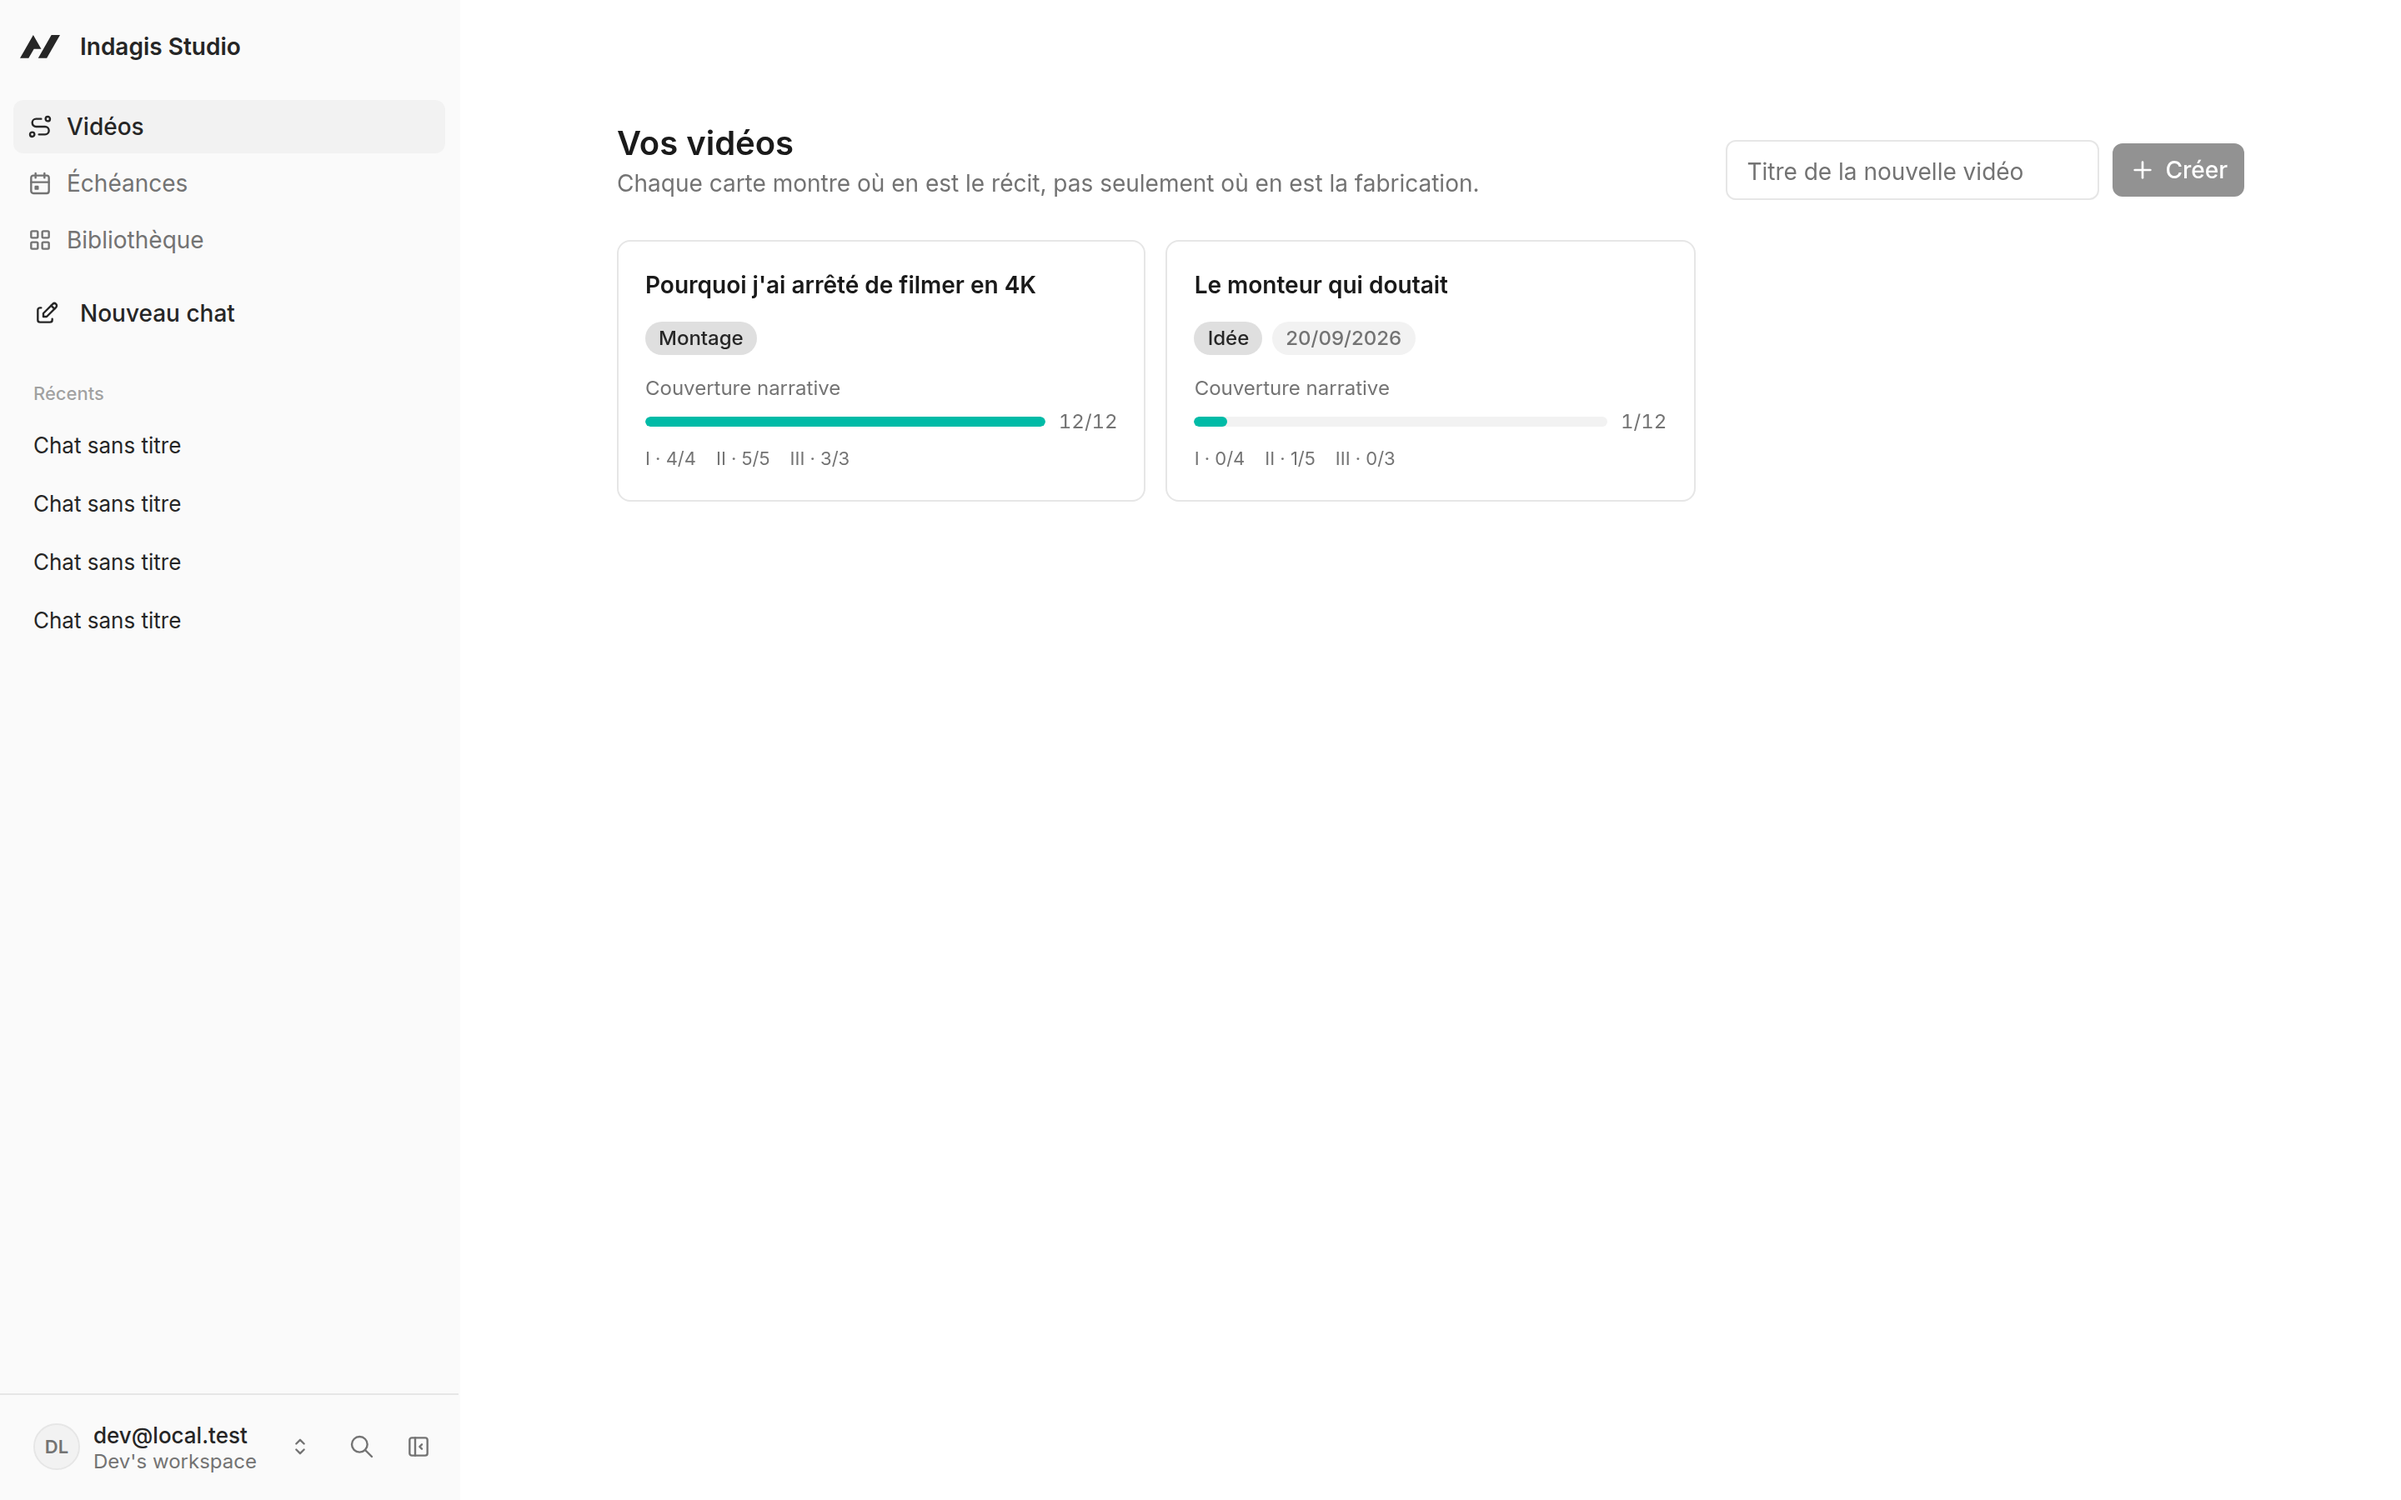
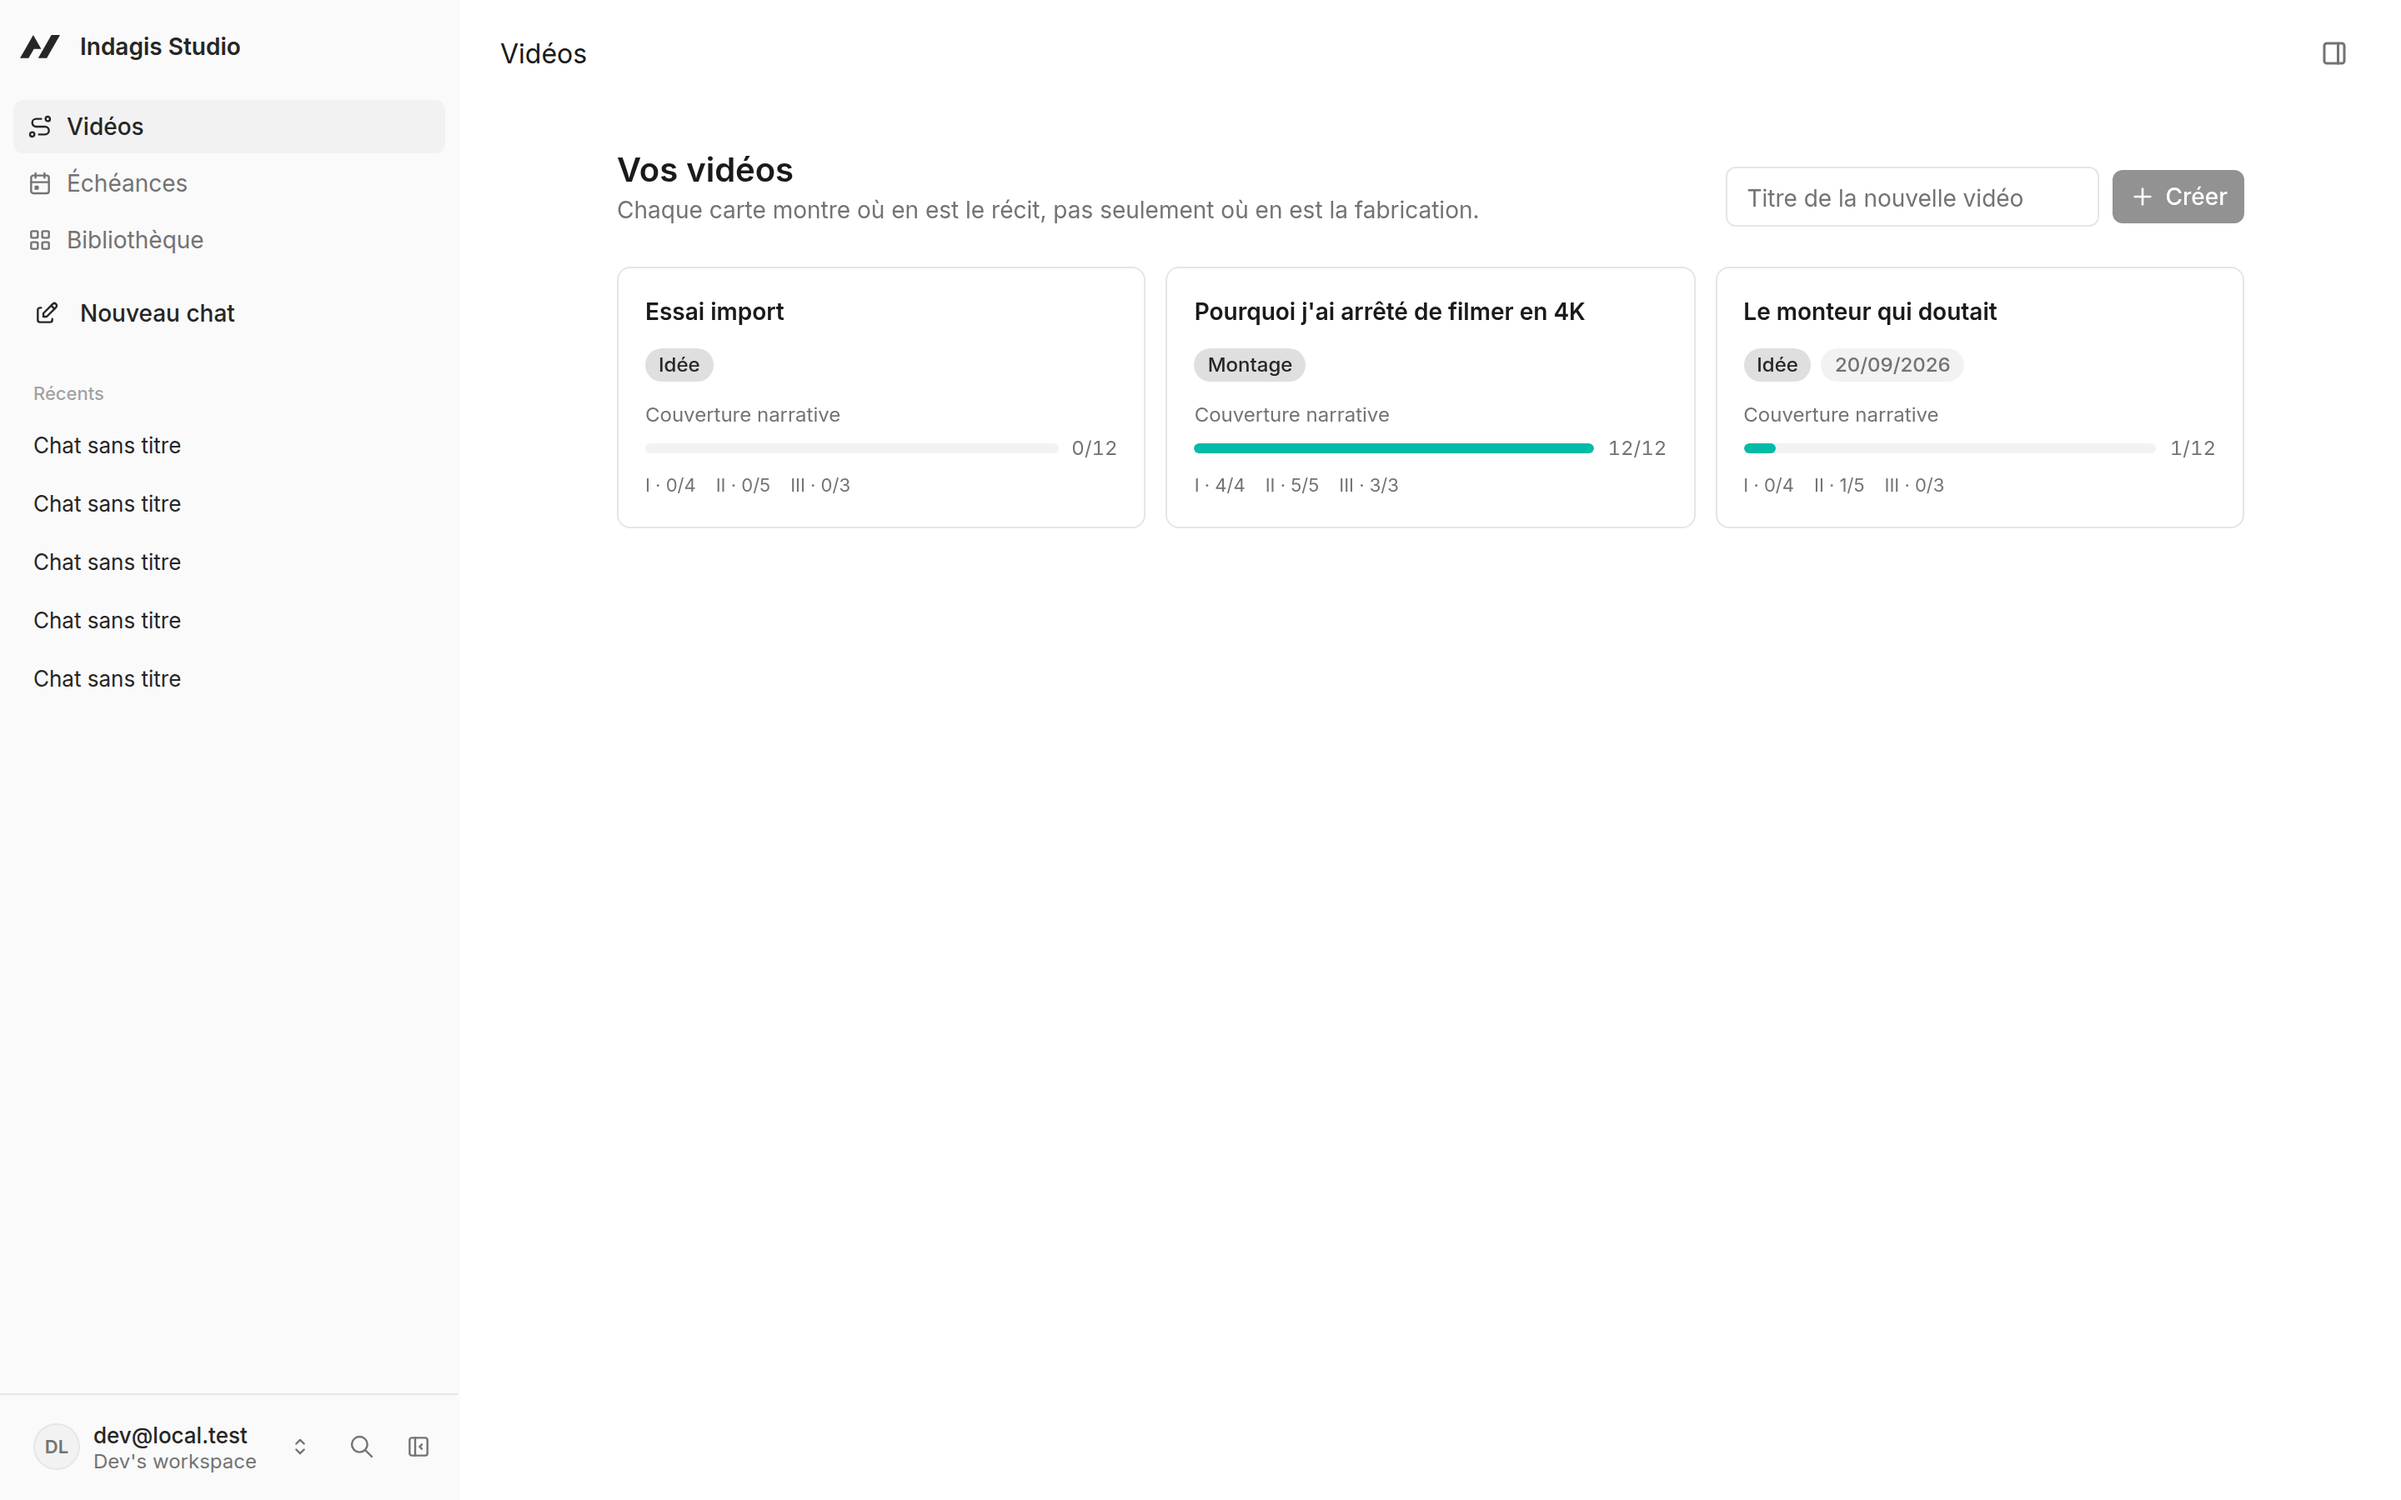
docs: l'import et le diagnostic sur la carte, annoncés et reprouvés
README : les deux gestes nouveaux figurent dans « Ce que ça fait ». Captures et
démonstration animée régénérées — elles montrent le bouton « Importer » à côté des
exports, et le diagnostic dans l'en-tête de la carte.

ETAT-DU-PROJET : les trois recommandations passent de « à faire » à « fait », avec
les deux décisions de l'import qu'il faut connaître avant d'y toucher — timecodes
SOURCE et non record, cadence exigée et jamais supposée.

Chiffres recalés, chacun reprouvé par sa commande : 43 actions métier (45 fichiers),
157 tests, 10 écrans Studio sur 10 passent par useT().

diff --git a/docs/ETAT-DU-PROJET.md b/docs/ETAT-DU-PROJET.md
@@ -38,16 +38,18 @@ Tout ce qui ne sert pas ce parcours est secondaire.
 
 | | Comment le reprouver |
 | --- | --- |
-| 42 actions métier, plus les 2 standard | `ls actions/*.ts \| wc -l` → 44 |
+| 43 actions métier, plus les 2 standard | `ls actions/*.ts \| wc -l` → 45 |
 | **Aucune action métier sans bouton** | critère du vérificateur, 4 exceptions nommées |
 | 13 tables, toutes à portée par propriétaire | `grep -c "ownableColumns()" server/db/schema.ts` → 13 |
 | 4 écrans Studio, sur 17 routes — les 13 autres viennent du gabarit | `ls app/routes/*.tsx` |
 | 12 règles de diagnostic | `grep -oE 'rule: "[a-z-]+"' shared/diagnosis.ts \| sort -u \| wc -l` → 12 |
 | 550 prompts livrés, hors du bundle client | garde CI « Le catalogue ne part pas au navigateur » |
-| **130 tests** | `pnpm test` |
+| **157 tests** | `pnpm test` |
 | **8 écrans Studio sur 8 passent par `useT()`** | ligne INFO du vérificateur |
 | **11 langues aux clés strictement identiques** | `tests/unit/i18n-catalog.test.ts`, 41 cas |
 | Export CSV, EDL d'assemblage et chapitres YouTube, **les trois depuis l'écran** | onglet Marqueurs, trois boutons |
+| **Import CSV, EDL et lignes collées**, avec lecture à blanc | onglet Marqueurs, bouton « Importer » |
+| **Le diagnostic se lance depuis la carte**, remarques cliquables | en-tête de l'onglet Carte |
 | Typecheck, build et doctor verts | `pnpm typecheck && pnpm build && pnpm agent-native:doctor` |
 | **24 critères du vérificateur au vert** | `bash scripts/verifier.sh` |
 
@@ -110,53 +112,57 @@ Resolve ou Premiere depuis ce dépôt.** Un EDL subtilement faux s'importe sans 
 **Fait quand** : un fichier exporté s'ouvre dans Resolve et montre les bons passages.
 Vérifiable par vous seul, puisqu'il faut le logiciel.
 
-## Recommandations — ce que je ferais ensuite, et pourquoi
+## Les trois recommandations, faites
 
-Trois manques de produit, trouvés en auditant les 44 actions contre l'interface. Aucun
-n'est un bug : ce sont des gestes que le monteur ne peut pas faire.
+Elles avaient été trouvées en auditant les 44 actions contre l'interface. Aucune n'était
+un bug : c'étaient des gestes que le monteur ne pouvait pas faire.
 
-### A. Importer des marqueurs, pas seulement les exporter
+### A. Importer des marqueurs — fait
 
-**Aucune action d'import n'existe** (`ls actions/ | grep import` → vide). L'échange est à
-sens unique : Studio produit un EDL, il n'en lit aucun.
+`import-markers` lit trois formats, reconnus tout seuls : le CSV (le nôtre, et tout autre
+à colonnes nommées), l'EDL CMX3600 de Resolve ou Premiere, et les lignes collées d'un
+dérushage. L'aller-retour export → import est ancré par un test.
 
-Or le monteur pose déjà des marqueurs dans Resolve pendant qu'il dérushe. Les retaper un
-par un dans Studio est le prix d'entrée du produit, et c'est le plus cher. Lire un CSV ou
-un EDL ferait tomber ce prix à zéro, et rendrait l'aller-retour possible : repérer dans
-Resolve, structurer dans Studio, ré-assembler dans Resolve.
+Deux décisions qui engagent, et qu'il faut connaître avant de toucher à ce code :
 
-**C'est à mon avis le plus gros gain disponible**, devant toute nouvelle règle de
-diagnostic.
+- **Les timecodes SOURCE de l'EDL, jamais les record.** Le record dit où le passage tombe
+  dans l'assemblage — une information qui n'existe pas dans le carnet et qui changera dès
+  la première coupe. Un test l'ancre : deux événements commençant à 0 dans leurs rushes
+  respectifs doivent tous deux relire 0.
+- **La cadence est exigée pour un EDL, jamais supposée.** Un EDL ne la porte pas ; la
+  deviner décalerait tous les timecodes en silence. Même règle qu'à l'export.
 
-### B. Coller une liste de timecodes d'un coup
+### B. Coller une liste de timecodes — fait
 
-Le carnet ne saisit qu'un marqueur à la fois (`grep -ci "bulk\|paste" MarkersTab.tsx` →
-0). Un dérushage produit vingt à cinquante repères. Vingt formulaires, c'est un abandon.
+Deux portes, une seule action derrière : coller un bloc, ou choisir un fichier — lu dans
+le navigateur, envoyé à l'action locale, rien ne sort de la machine. Une **lecture à
+blanc** montre ce qui serait créé et ce qui serait refusé, ligne par ligne.
 
-Un champ qui accepte un bloc collé — une ligne par passage, `rush-01.mp4 1:30 1:45
-Ouverture` — tiendrait en une action et un parseur. Moins ambitieux que l'import de
-fichier, et livrable en une fraction du temps.
+Les marqueurs importés s'ajoutent à la suite, **jamais à la place** : un import ne doit
+pas pouvoir effacer un carnet.
 
-### C. Montrer le diagnostic sur la carte
+### C. Montrer le diagnostic sur la carte — fait
 
-Le diagnostic vit dans l'onglet **Essais** ; la carte ne le mentionne jamais
-(`grep -c diagnose StoryMap.tsx` → 0). Or la carte est l'écran où l'on passe son temps,
-et le diagnostic est la réponse à la question qui fonde le produit : *qu'est-ce qui manque
-à mon histoire ?*
+Un bouton dans l'en-tête, un compteur de remarques, et surtout : **chaque remarque est
+cliquable**. `Finding.steps` nomme les étapes concernées ; un clic déplie la bonne. C'est
+ce que l'onglet Essais ne sait pas faire, et c'est la raison d'être de cette surface — on
+constate ici, on agit là-bas.
 
-Un badge « 3 remarques » dans l'en-tête de la carte, qui déplie la liste, mettrait la
-valeur du produit là où le regard est déjà. C'est le changement le moins coûteux des
-trois.
+### Le principe commun
 
-### Deux choses que je ne recommande pas
+**Rejeter plutôt que deviner.** Une ligne incompréhensible est rendue avec son numéro et
+sa raison. Un carnet à moitié faux coûte plus cher qu'un carnet vide, parce qu'on ne sait
+pas quelle moitié.
+
+### Deux choses que je ne recommande toujours pas
 
 **Ajouter des règles de diagnostic.** Douze suffisent tant que personne ne les a vues
 tourner sur un vrai montage. En écrire une treizième avant ce retour, c'est deviner.
 
 **Déployer en ligne.** Le produit tient parce qu'il est local : pas de compte, pas de
 données qui sortent, PGlite sur la machine. Un déploiement exigerait un Postgres
-persistant, un secret d'authentification, et ferait tomber l'argument de confidentialité
-qui est aujourd'hui gratuit.
+persistant et un secret d'authentification, et ferait tomber l'argument de
+confidentialité qui est aujourd'hui gratuit.
 
 ## Traité depuis la première version de ce document
 

diff --git a/README.md b/README.md
@@ -24,9 +24,13 @@ du récit et les timecodes réels des rushes.*
   pouvez réordonner selon la logique du récit et non celle de la chronologie. Exportable
   en CSV, en **EDL d'assemblage** à importer dans Resolve ou Premiere, et en chapitres
   YouTube.
+- **Un import qui vous évite de retaper** — collez un bloc depuis votre dérushage, ou
+  donnez le CSV ou l'EDL que vous avez déjà. Une lecture à blanc montre ce qui serait
+  créé et ce qui serait refusé, ligne par ligne, avant d'écrire quoi que ce soit.
 - **Une fiche de préparation** — les cinq questions à se poser avant de monter.
 - **Un diagnostic de structure** — douze règles appliquées mécaniquement à votre carte :
-  acte sous-couvert, climax sans enjeu lisible, fin déconnectée, courbe plate…
+  acte sous-couvert, climax sans enjeu lisible, fin déconnectée, courbe plate… Il se
+  lance **depuis la carte**, et chaque remarque déplie l'étape qu'elle concerne.
 - **Une boucle d'essais** — observation → hypothèse → tentative → verdict, avec le rappel
   de la règle qui compte : une seule chose à la fois.
 - **Un brief de composition** — un bouton par acte, en haut de la carte, qui transforme
